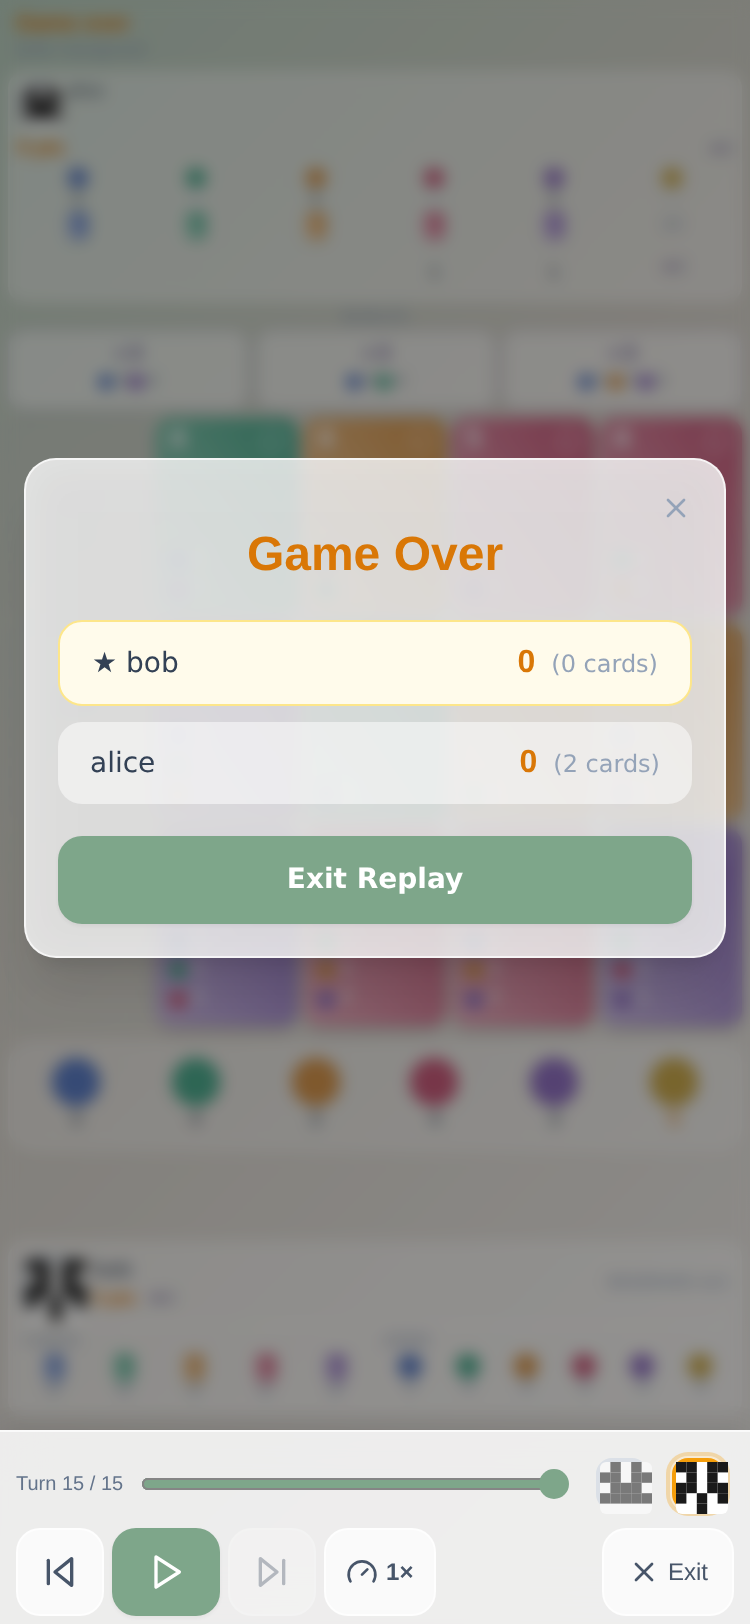
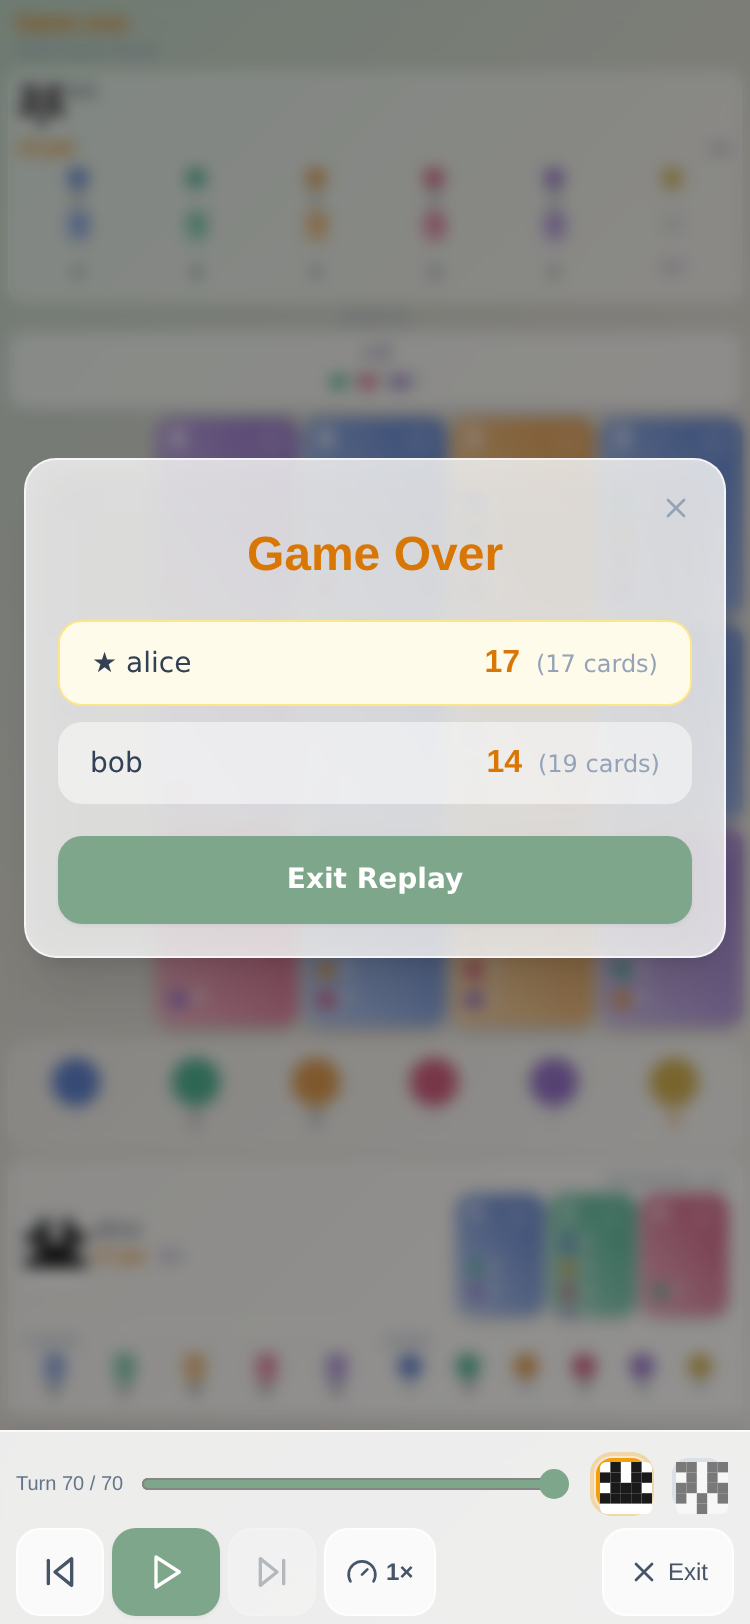
splendor_ai: anchored arena (paired seeds, seat rotation, Bradley-Terry), export bundle, NSCC PBS scripts and setup
Claude-Session: https://claude.ai/code/session_01KxVch65mcLL5sdVjKVQqqZ

diff --git a/server/test/aiBridge.test.js b/server/test/aiBridge.test.js
@@ -235,6 +235,52 @@ async function run() {
       'the fallback claims the first pending tile');
   });
 
+  await test('a buy that opens a noble choice asks the worker for the tile instead of falling back', async () => {
+    freshBridge();
+    const { room, applied, resigned } = makeWorld();
+    // Buying `target` (reward 4) takes the bot's discount to [3, 3, 3, 0, 3],
+    // which meets tiles 5 and 7 at once — so the buy legitimately leaves the
+    // turn where it is with `_pendingTileChoice` set.
+    const target = ALL_CARDS.find(card => card.id === 4);
+    const pick = (reward, count) => ALL_CARDS
+      .filter(card => card.tier === 1 && card.reward === reward && card.id !== target.id)
+      .slice(0, count);
+    room.gameState.players[1].cards = [...pick(0, 3), ...pick(1, 3), ...pick(2, 3), ...pick(4, 2)];
+    room.gameState.players[1].gems = [0, 0, 0, 1, 0, 0];
+    room.gameState.bonusTiles = ALL_BONUS_TILES.filter(tile => tile.id === 5 || tile.id === 7);
+    room.gameState.board[0] = [target, ...room.gameState.board[0].slice(1)];
+
+    const { socket } = registerWorker();
+    aiBridge.maybeAct(room);
+    await sleep(25);
+    const buyRequest = socket.lastOf('ai_move_request');
+    assertEqual(buyRequest.kind, 'MOVE', 'the first request is an ordinary move');
+    socket.trigger('ai_move_response', {
+      requestId: buyRequest.requestId,
+      action: { type: 'BUY_CARD', cardId: target.id, source: 'board' },
+    }, () => {});
+
+    assertEqual(applied, [{ playerIndex: 1, action: { type: 'BUY_CARD', cardId: target.id, source: 'board' } }],
+      'the buy is applied and no fallback CHOOSE_TILE is bolted onto it');
+    assertEqual(resigned, [], 'the seat is not resigned');
+    assertEqual(room.gameState._pendingTileChoice, [5, 7], 'the noble choice is still the bot\'s to make');
+
+    await sleep(25);
+    assertEqual(socket.countOf('ai_move_request'), 2, 'exactly one follow-up request');
+    const tileRequest = socket.lastOf('ai_move_request');
+    assertEqual(tileRequest.kind, 'TILE', 'and it asks for the tile');
+    assertEqual(tileRequest.playerIndex, 1);
+    assertEqual(tileRequest.pendingTileChoice, [5, 7]);
+
+    socket.trigger('ai_move_response', {
+      requestId: tileRequest.requestId, action: { type: 'CHOOSE_TILE', tileId: 7 },
+    }, () => {});
+    assertEqual(applied.length, 2, 'the worker picked the noble itself');
+    assertEqual(applied[1].action, { type: 'CHOOSE_TILE', tileId: 7 });
+    assertEqual(room.gameState.currentPlayerIndex, 0, 'and the turn moved on');
+    assertEqual(aiBridge._inFlightCount(), 0, 'released');
+  });
+
   suite('aiBridge — fallback paths');
 
   await test('falls back to the greedy policy when no worker is connected', async () => {

diff --git a/server/aiBridge.js b/server/aiBridge.js
@@ -406,6 +406,12 @@ function runSequence(room, entry, translated, source) {
   }, 'apply');
 
   const after = deps.getRoom(entry.roomId);
+  // A buy that qualifies two or more nobles legitimately leaves the turn where
+  // it is with `_pendingTileChoice` set: the seat still owes a CHOOSE_TILE, and
+  // the maybeAct() below asks the worker for it (kind 'TILE'). That is progress,
+  // not a stall — treating it as one would hand every noble choice to the
+  // fallback and make TILE requests unreachable.
+  const awaitingTileChoice = !!after?.gameState?._pendingTileChoice?.length;
   const stalled = !!after?.gameState
     && after.gameState.phase === 'PLAYING'
     && after.gameState.phase === phaseBefore
